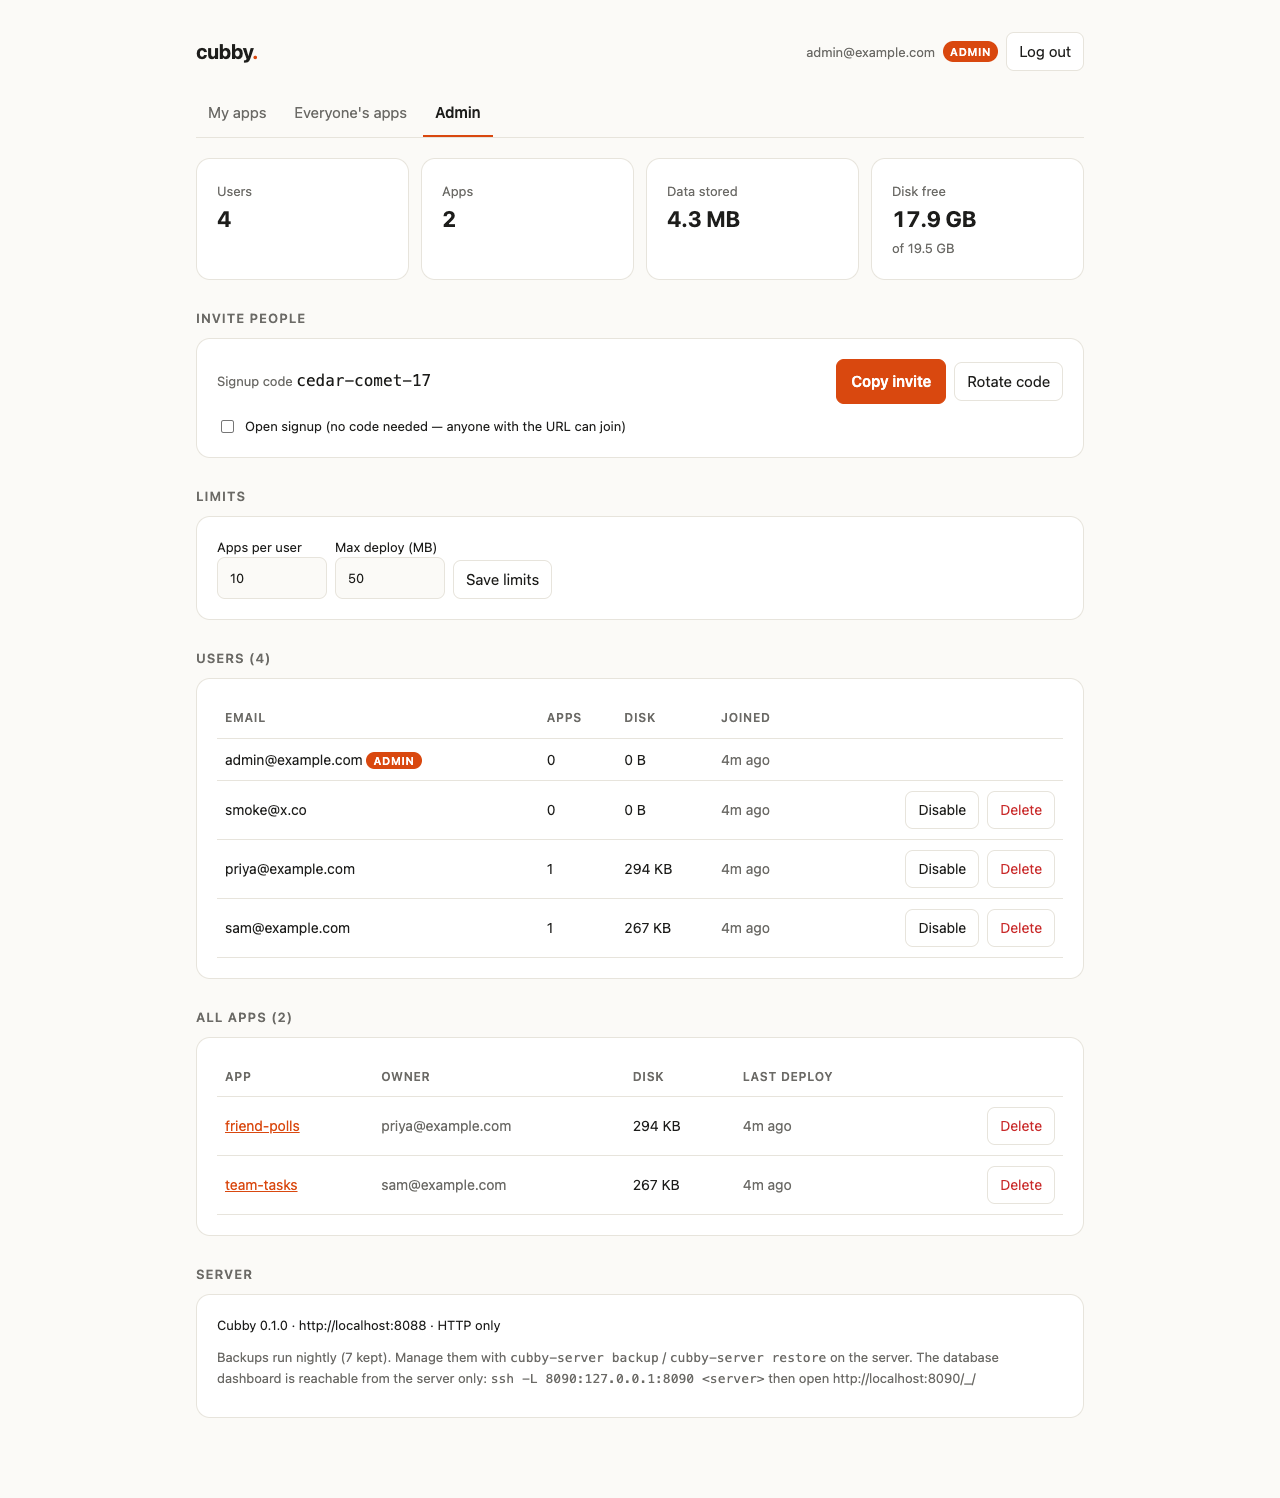
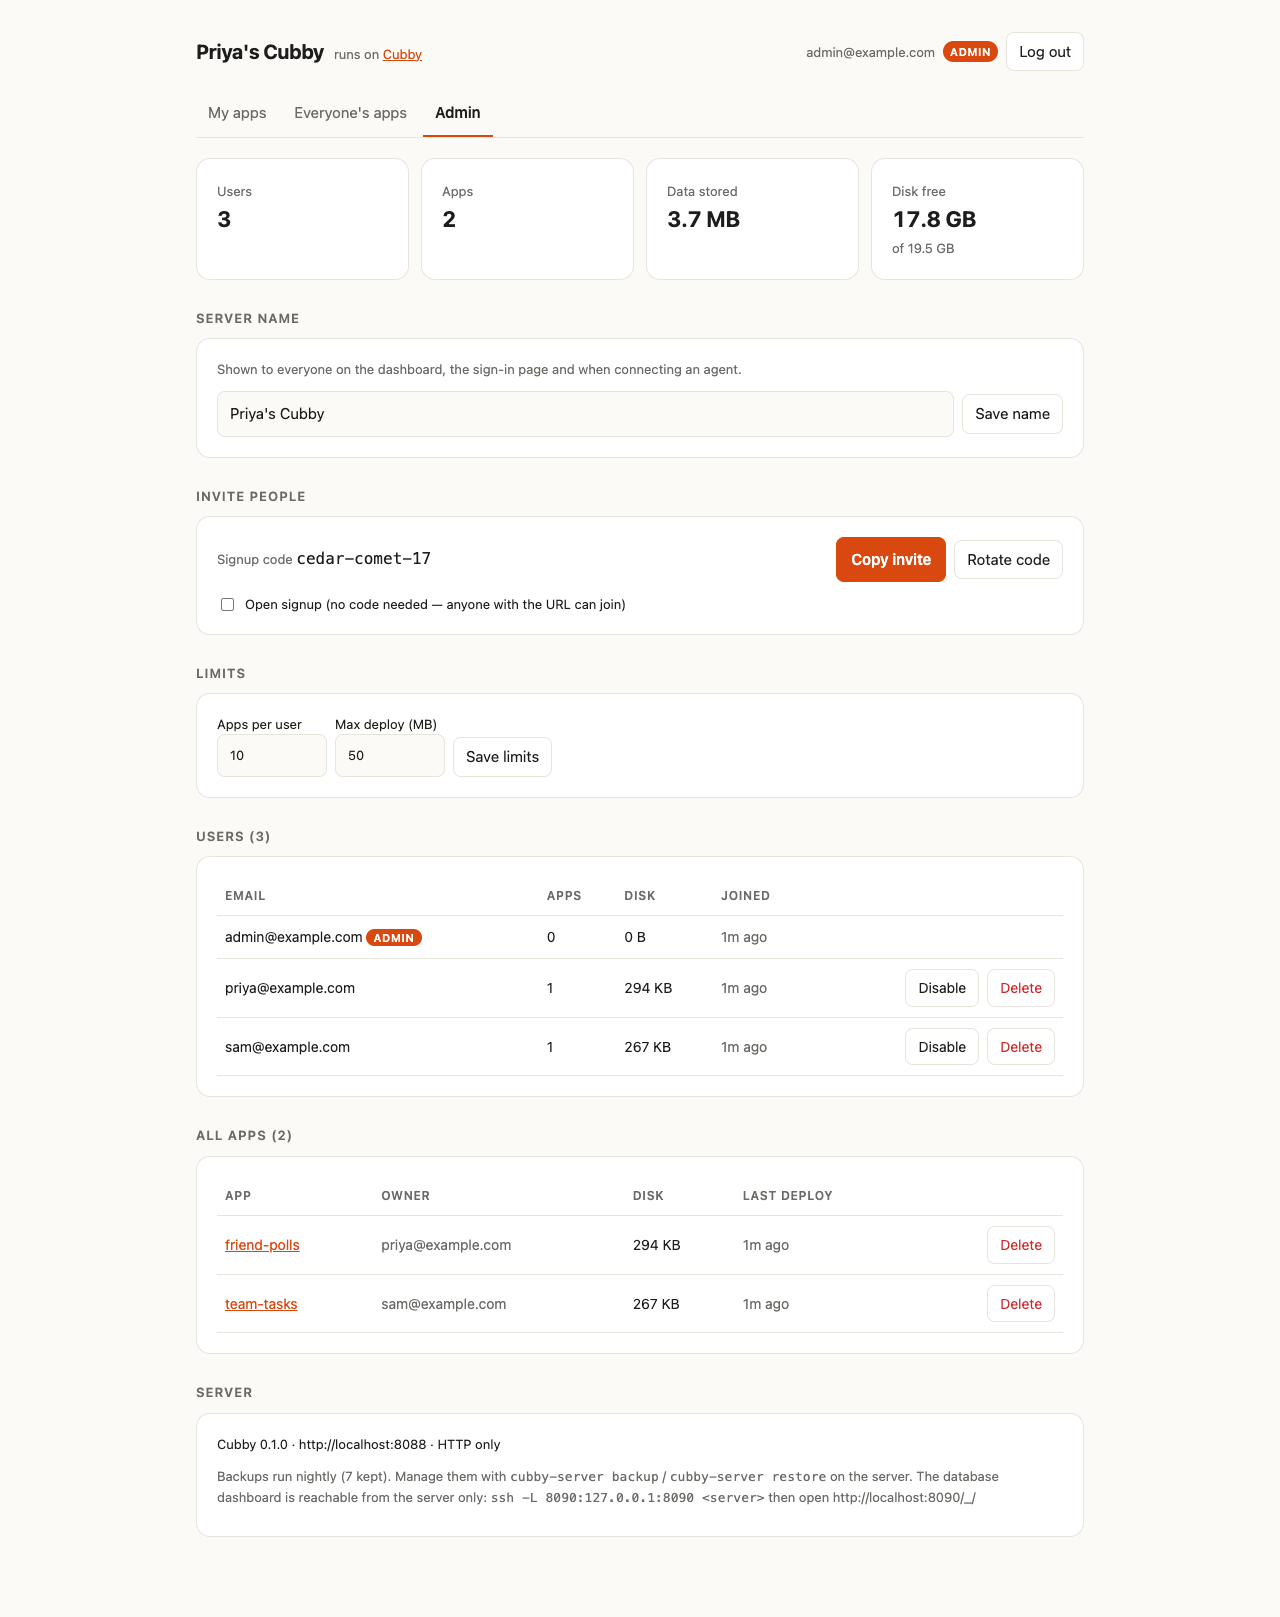
docs: refresh screenshots and document main branch protection (#3)
- Retake the docs screenshots so they show server names ("Priya's Cubby",
  "runs on Cubby") and the named agent-approval page
- CONTRIBUTING: explain the main branch protection rules and how to rebase
  a stacked PR after its base is squash-merged
- AGENTS.md: add a git and pull request section (protected main, stacked
  PR rebase, commit identity) and move the file-contract bullets back
  under their heading
- README and docs site: note that main only takes PRs with passing CI

diff --git a/docs/index.html b/docs/index.html
@@ -477,7 +477,7 @@ cp .env.example .env
 npm run setup        <span class="c"># downloads PocketBase into ./bin, installs deps</span>
 npm run dev          <span class="c"># http://localhost:8080, apps at http://&lt;app&gt;.localhost:8080</span>
 npm test             <span class="c"># unit, integration and browser tests</span></pre></div>
-      <p>The repo has three parts: <code>server/</code> (control API, hosting, database proxy), <code>cli/</code> (the CLI, app template and agent skill) and <code>docker/</code> + <code>install.sh</code> (packaging). Before opening a pull request, read the <a href="https://github.com/chaitanyadukkipaty/cubby/blob/main/CONTRIBUTING.md">contribution guide</a>: branch naming, Conventional Commits, tests at every level of the pyramid, and docs in the same PR.</p>
+      <p>The repo has three parts: <code>server/</code> (control API, hosting, database proxy), <code>cli/</code> (the CLI, app template and agent skill) and <code>docker/</code> + <code>install.sh</code> (packaging). The <code>main</code> branch is protected: every change lands through a pull request with passing tests. Before opening one, read the <a href="https://github.com/chaitanyadukkipaty/cubby/blob/main/CONTRIBUTING.md">contribution guide</a>: branch naming, Conventional Commits, tests at every level of the pyramid, and docs in the same PR.</p>
     </section>
   </main>
 </div>

diff --git a/AGENTS.md b/AGENTS.md
@@ -63,6 +63,15 @@ Traps that aren't obvious from reading the code. For workflow (branches, commits
   cli/src/lib.js stamp it and `skill status` parses it. The skill is server-neutral on purpose (one skill, many
   servers): don't put a server URL or `{{…}}` placeholder back in. Servers are registered by `/skill.sh` and
   `cubby login` in `~/.cubby/config.json`.
+- Backups are named `cubby-YYYY-MM-DD.zip` / `sites-YYYY-MM-DD.tar.gz` (server/src/backups.js); docker/cubby-server
+  parses those names for `backups` and `restore`.
+- In the container PocketBase listens on `PB_LISTEN=0.0.0.0:8090` but is published only to host loopback
+  (`-p 127.0.0.1:8090:8090`). Don't change the publish to `8090:8090`: it would expose the PocketBase admin UI.
+- The template's `<script src="/__cubby/config.js">` must stay a classic script before `main.tsx`: the file only
+  exists at runtime (served per app), so Vite must not try to bundle it. Its "can't be bundled without type=module"
+  warning is expected.
+- The dashboard's pure helpers live between the `BEGIN/END PURE HELPERS` markers in server/public/index.html; unit
+  tests load that block in a `vm`. Keep them pure (no DOM, no globals defined later) and inside the markers.
 
 ## Version skew between servers (the launcher)
 
@@ -80,15 +89,6 @@ Traps that aren't obvious from reading the code. For workflow (branches, commits
   explicit `cubby link <app> --server <url>`.
 - `CUBBY_VERSION_OVERRIDE` makes a server report and stamp another version. It exists for two-version tests; don't
   use it to paper over a real mismatch.
-- Backups are named `cubby-YYYY-MM-DD.zip` / `sites-YYYY-MM-DD.tar.gz` (server/src/backups.js); docker/cubby-server
-  parses those names for `backups` and `restore`.
-- In the container PocketBase listens on `PB_LISTEN=0.0.0.0:8090` but is published only to host loopback
-  (`-p 127.0.0.1:8090:8090`). Don't change the publish to `8090:8090`: it would expose the PocketBase admin UI.
-- The template's `<script src="/__cubby/config.js">` must stay a classic script before `main.tsx`: the file only
-  exists at runtime (served per app), so Vite must not try to bundle it. Its "can't be bundled without type=module"
-  warning is expected.
-- The dashboard's pure helpers live between the `BEGIN/END PURE HELPERS` markers in server/public/index.html; unit
-  tests load that block in a `vm`. Keep them pure (no DOM, no globals defined later) and inside the markers.
 
 ## Tests
 
@@ -97,6 +97,16 @@ Traps that aren't obvious from reading the code. For workflow (branches, commits
 - `fetch()` silently drops `Host`; use `hostRequest` for `<app>.localhost` routing.
 - c8 collects child-process coverage only if the server exits cleanly. Its SIGTERM handler is registered only when
   `PB_SPAWN=1` (server/src/pb.js), so keep that in tests.
+
+## Git and pull requests
+
+- `main` is protected: no direct pushes (admins included), PRs need the `test` check passing on an up-to-date branch,
+  and merges are squash-only. Never try to push to `main` or disable protection to get a change in; open a PR.
+- Stacked PRs: once the base PR is squash-merged, the stacked branch still carries the base's original commits and
+  conflicts. Rebase only its own commits: `git rebase --onto origin/main <last-commit-of-base> <branch>`, then
+  `git push --force-with-lease`. Don't merge `main` into it (linear history is required).
+- Commit with the repo-local git identity; never pass `--author` or change `user.email`. Merging with `gh` should
+  pass `--author-email` explicitly, or GitHub records the account's default email.
 
 ## Naming and CLI shape
 

diff --git a/CONTRIBUTING.md b/CONTRIBUTING.md
@@ -161,8 +161,20 @@ We use [Conventional Commits](https://www.conventionalcommits.org/en/v1.0.0/):
 - **Keep it reviewable.** Aim for under ~600 changed lines excluding tests and docs; split larger work into a series.
 - **CI must pass**: unit, integration, coverage and end-to-end tests run on every push.
 - **Draft PRs** are welcome for early feedback.
+- **Stacked PRs** (one PR building on another) are fine: open the second against the first's branch. After the first is
+  squash-merged, rebase only your own commits onto `main` (`git rebase --onto origin/main <base-branch-tip> <your-branch>`)
+  and force-push with `--force-with-lease`. GitHub retargets the PR to `main` for you.
 
 ## Review and merging
+
+`main` is protected, for everyone including maintainers:
+
+- Changes land **only through pull requests**. Direct pushes, force pushes and deleting `main` are blocked.
+- The **`test` check must pass** (unit, integration, coverage and end-to-end), and the branch must be **up to date**
+  with `main`. If it isn't, use GitHub's "Update branch" button or rebase.
+- History is **linear**: squash merges only.
+- **Open review conversations must be resolved** before merging.
+- Required approvals are currently 0 while the project has a single maintainer; this goes up as maintainers join.
 
 - A maintainer reviews within a few days. Reviews focus on correctness, safety (isolation, data loss), tests and docs.
 - Address feedback with new commits; don't force-push during review unless asked.

diff --git a/README.md b/README.md
@@ -186,7 +186,8 @@ Contributions are welcome, from people and their agents. Read **[CONTRIBUTING.md
 1. Open an issue for anything bigger than a small fix, and agree on the approach.
 2. Branch from `main` (`feat/…`, `fix/…`, `docs/…`) and use [Conventional Commits](https://www.conventionalcommits.org/).
 3. Add tests at the right level of the pyramid, update the docs, and run `npm test`.
-4. Open a pull request using the template. CI must pass.
+4. Open a pull request using the template. `main` is protected: changes land only through pull requests with passing CI,
+   squash-merged.
 
 Please follow our [Code of Conduct](CODE_OF_CONDUCT.md), and report security problems privately as described in [SECURITY.md](SECURITY.md).
 Notable changes are listed in the [changelog](CHANGELOG.md).
